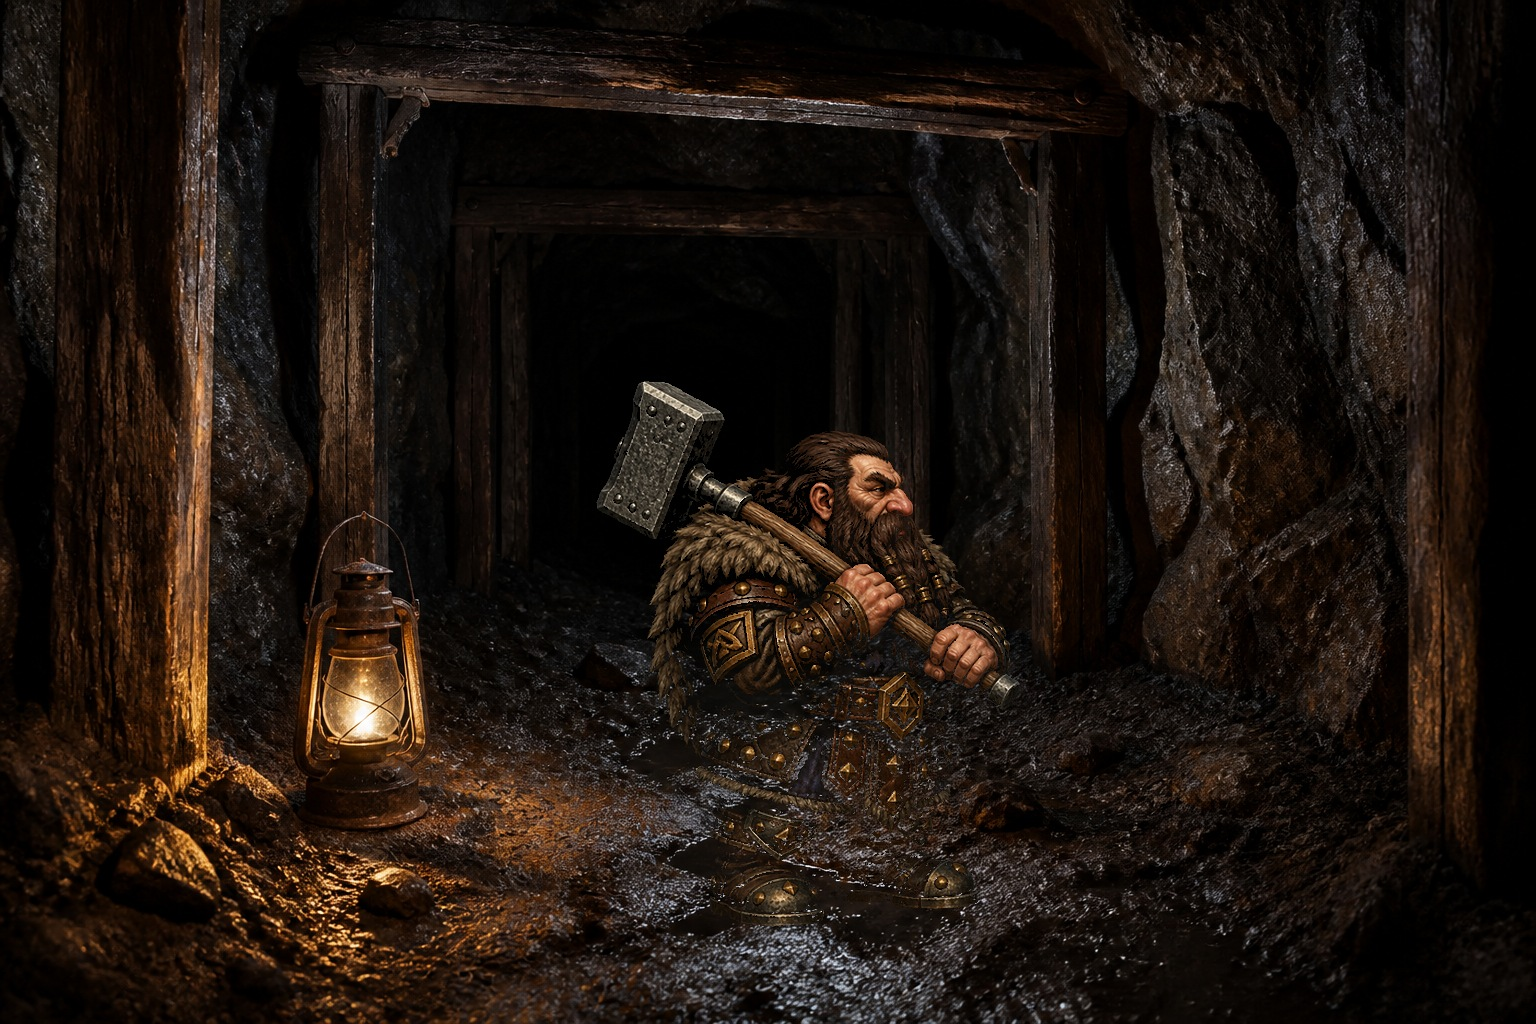
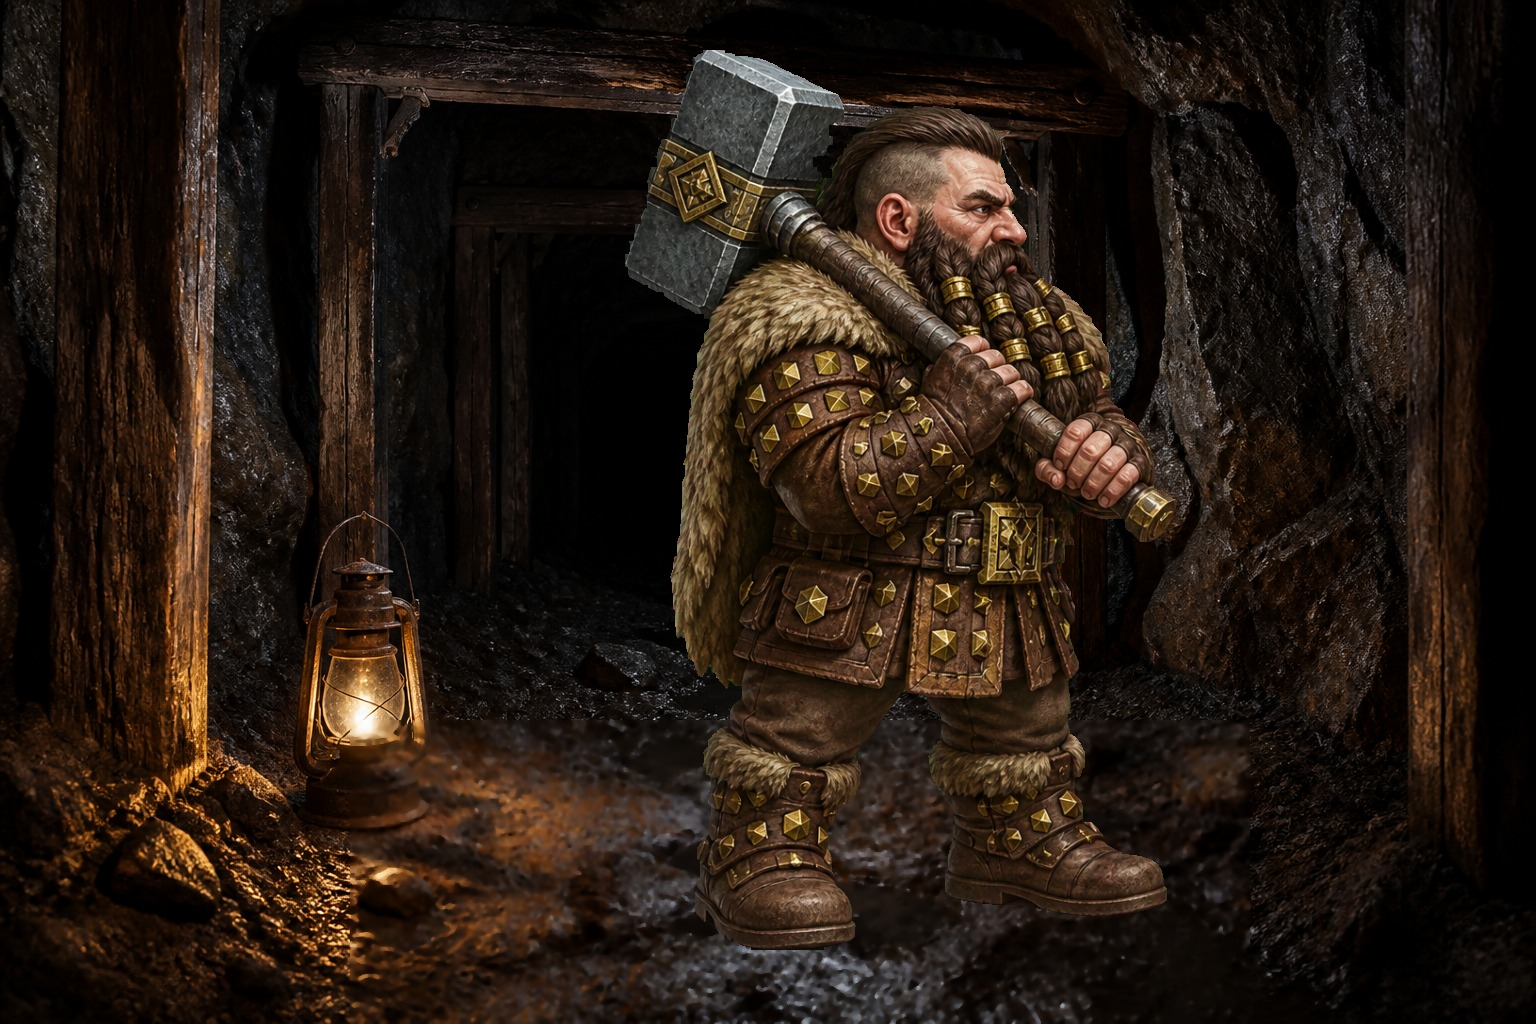
Fix Chapter I intro Macar legs and boots (ASSET_VER 91). (#186)

diff --git a/src/ui/Ch1RubbleLoad.test.js b/src/ui/Ch1RubbleLoad.test.js
@@ -45,7 +45,7 @@ assert(!/else if\(okTex\)\{/.test(html),
   'generated TEX diamonds are not a first-frame floor/wall fallback');
 assert(/tile_floor_mine\.png\?v=60/.test(html) && /tile_wall_worked\.png\?v=60/.test(html),
   'mine floor and worked wall are preloaded before first present');
-assert(/ASSET_VER='90'/.test(html), 'asset cache-bust matches punched living-Macar sheets');
+assert(/ASSET_VER='91'/.test(html), 'asset cache-bust matches punched living-Macar sheets');
 assert(/function scatterBurialRubble\(/.test(html) && /fallen:1/.test(html) && /k:'dust'/.test(html),
   'cave-in entry scatters extra timber, stone, and dust around the burial');
 assert(/function drawFallenBeam\(/.test(html) && /function drawFloorDust\(/.test(html),

diff --git a/src/combat/ElvenkindBoots.test.js b/src/combat/ElvenkindBoots.test.js
@@ -23,7 +23,7 @@ function extractFn(name){
   return m[0];
 }
 
-assert(/ASSET_VER='90'/.test(html), 'ASSET_VER is unchanged');
+assert(/ASSET_VER='91'/.test(html), 'ASSET_VER is unchanged');
 assert(/function wornMoveMul\(/.test(html) && /function moveStep\(/.test(html),
   'wornMoveMul and moveStep exist (extract of move())');
 assert(/function wearingElvenkind\(/.test(html), 'shared wearingElvenkind helper exists');

diff --git a/src/combat/UseMagicItem.test.js b/src/combat/UseMagicItem.test.js
@@ -60,7 +60,7 @@ assert(/nocked|stays packed/.test(useFn), 'plus-shot ammo use is still nock/read
 assert(/EquipmentSlots\.isEquippable\(it\)/.test(useFn),
   'wearable misc (Displacement) dons through isEquippable before the generic buff+heal');
 
-assert(/ASSET_VER='90'/.test(html), 'ASSET_VER is unchanged');
+assert(/ASSET_VER='91'/.test(html), 'ASSET_VER is unchanged');
 
 const ctx={
   G:{equipped:{}},

diff --git a/index.html b/index.html
@@ -351,7 +351,7 @@ const FONT_QUOTE='"Cormorant Garamond",Palatino,Georgia,serif';
 
 /* ---------------------------- painted sprites (Baldur's Gate isometric) ---------------------------- */
 const SPR={};
-const ASSET_VER='90';
+const ASSET_VER='91';
 let SPLASH_STATE='loading';
 function assetUrl(src){
   const u=src+(src.indexOf('?')>=0?'&':'?')+'v='+ASSET_VER;

diff --git a/src/combat/LeftoverMagic.test.js b/src/combat/LeftoverMagic.test.js
@@ -26,7 +26,7 @@ function extractFn(name){
   return m[0];
 }
 
-assert(/ASSET_VER='90'/.test(html), 'ASSET_VER is unchanged');
+assert(/ASSET_VER='91'/.test(html), 'ASSET_VER is unchanged');
 assert(!/id:'vorpal'|id:'bag_of_holding'|id:'arrow_of_slaying'|id:'javelin_of_lightning'/.test(html),
   'no invented leftover-magic item ids');
 
